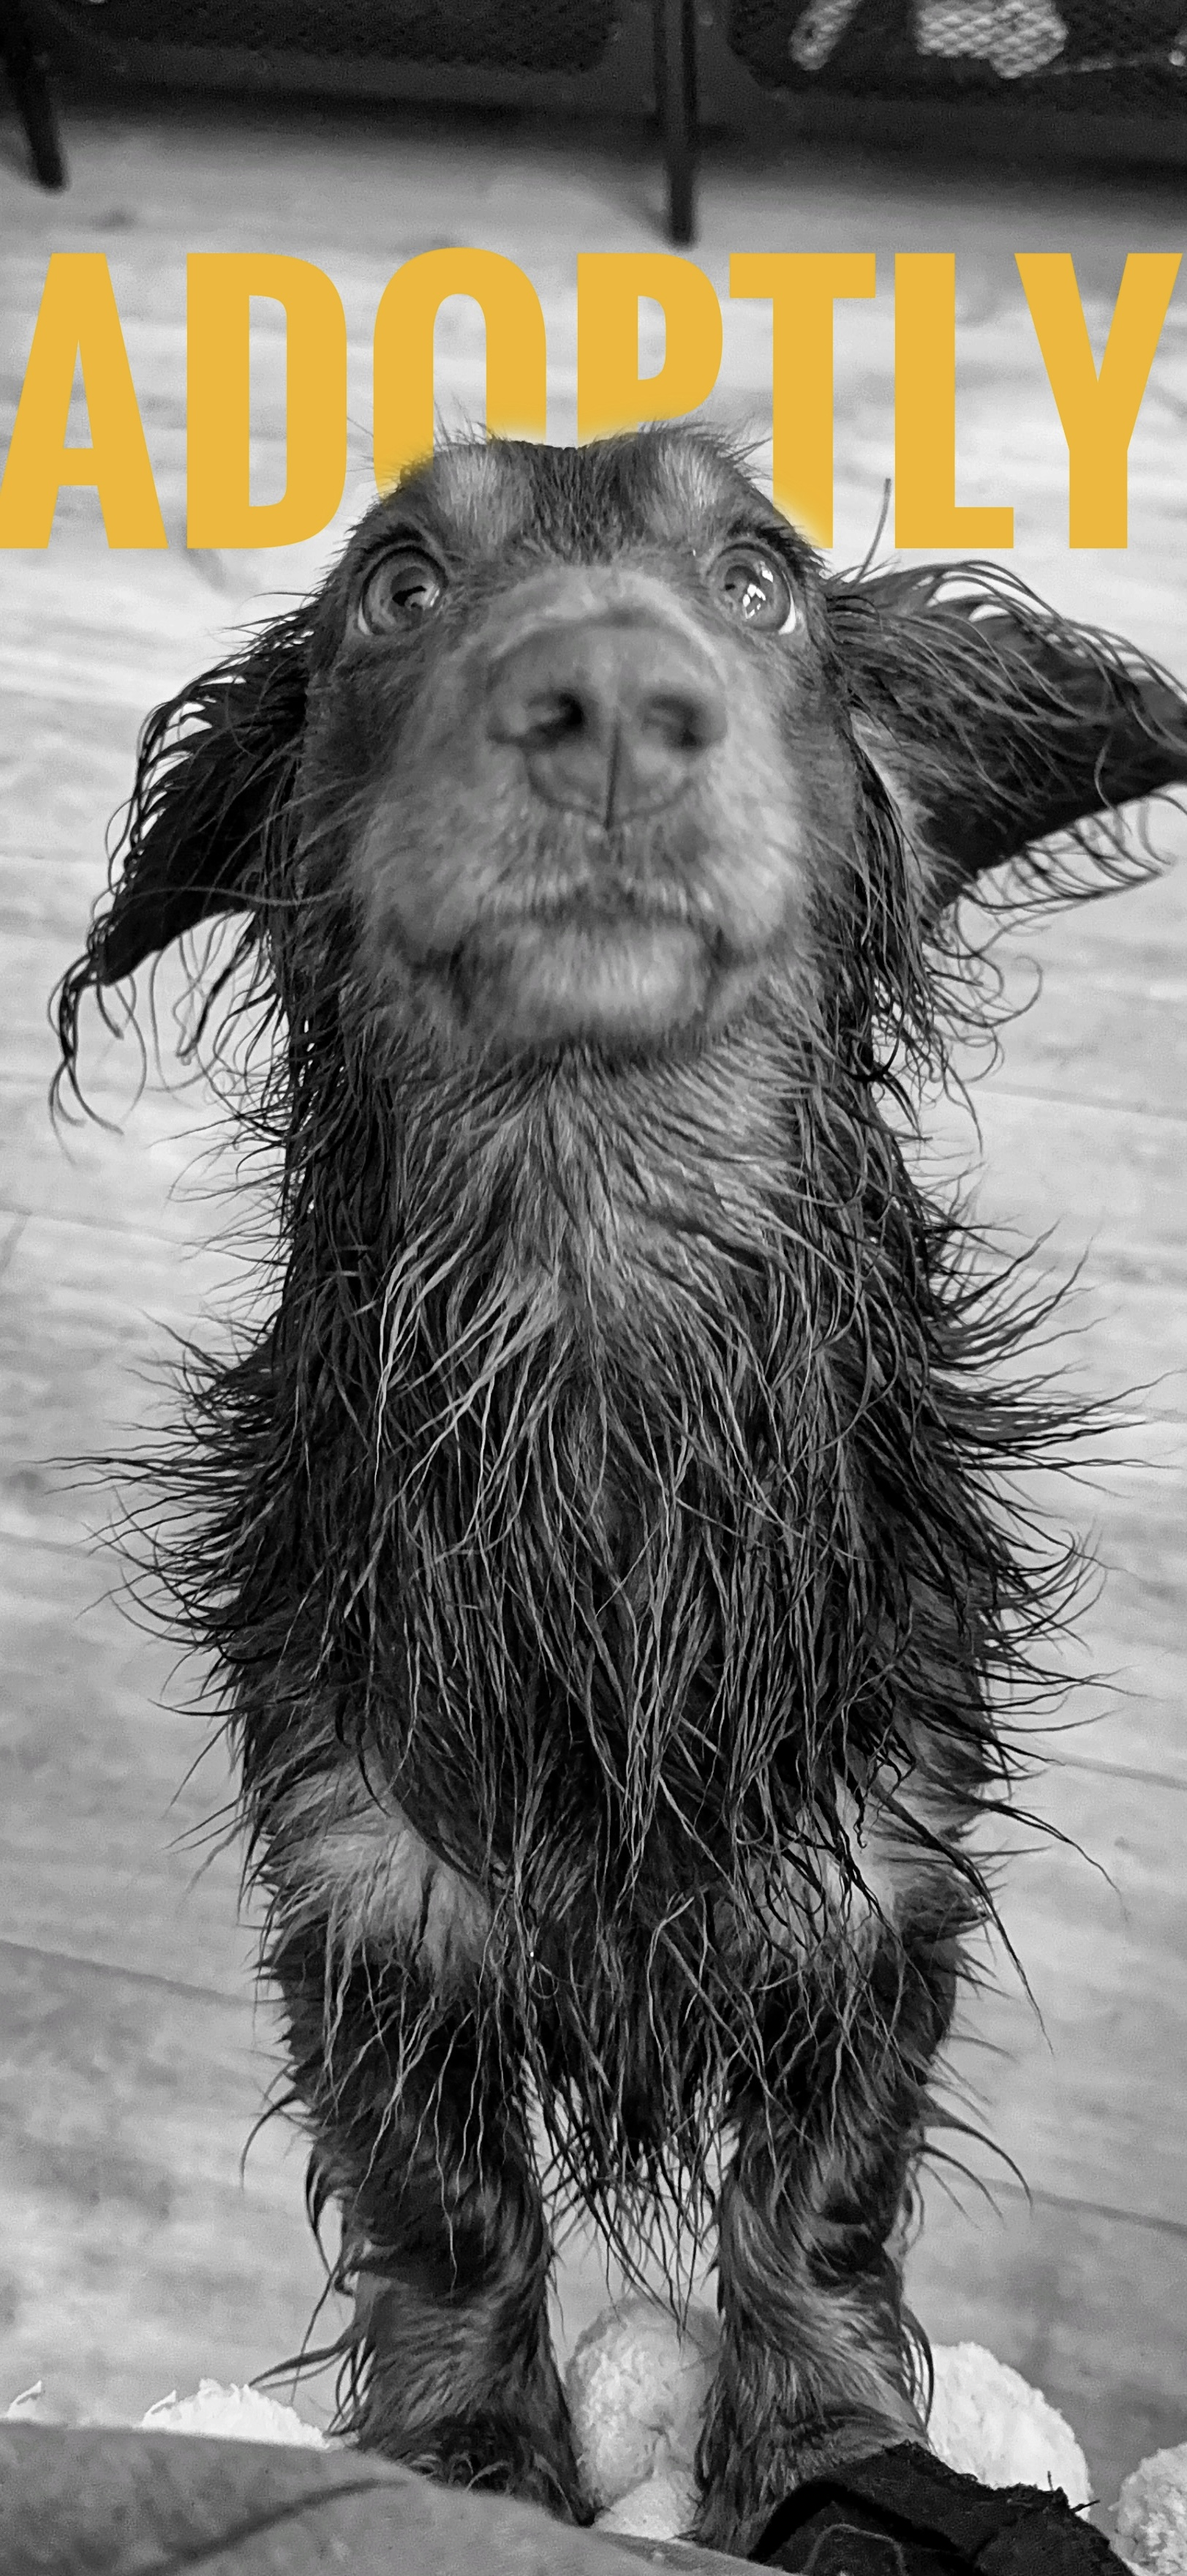
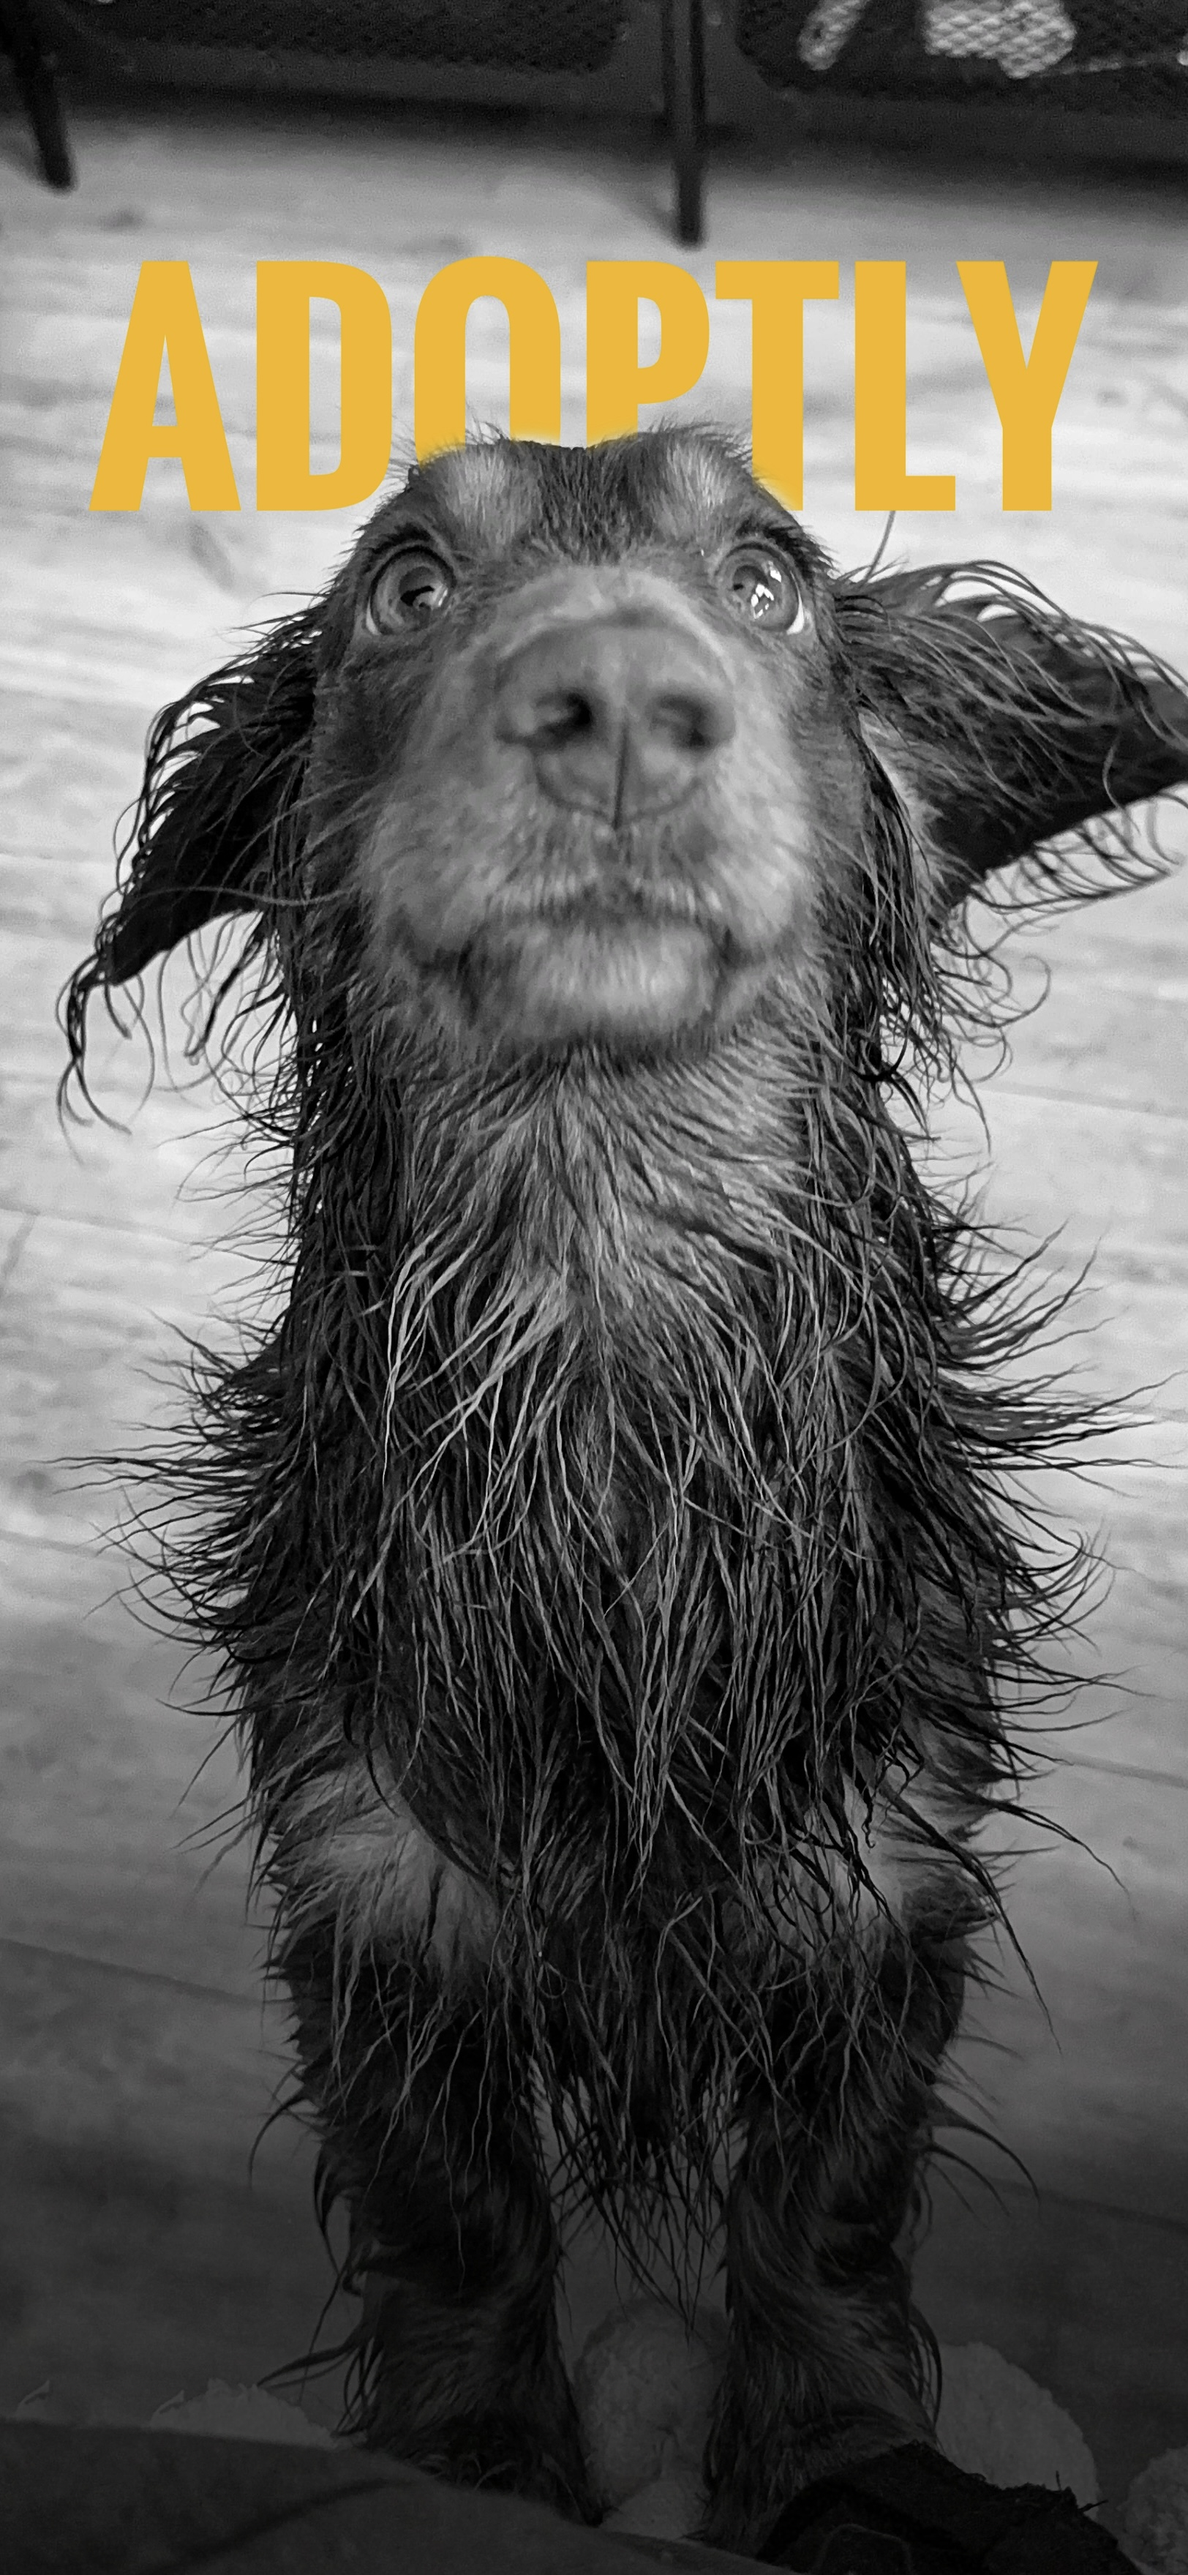
gateway style

diff --git a/main_app/static/css/style.css b/main_app/static/css/style.css
@@ -1,6 +1,5 @@
 body.gateway {
-    background: linear-gradient(0deg, 
-    rgba(0, 0, 0, 1) 0%, rgba(0, 0, 0, 0) 25%), url("/static/images/gateway-hero.jpg");
+    background: url("/static/images/gateway-hero.jpg");
     background-repeat: no-repeat;
     background-size: cover;
     display: flex;
@@ -8,21 +7,47 @@ body.gateway {
     justify-content: center;
 }
 
+
 button.signup {
+    height: 40px;
+    margin: auto;
     display: flex;
     justify-content: center;
+    align-items: center;
+    flex-direction: column;
     font-size: 3vmin;
-    padding-top: 2vmin;
-    padding-bottom: 2vmin;
-    padding-right: 15vmin;
-    padding-left: 15vmin;
-    border: 0vmin solid orange;
+    border: none;
     border-radius: 3vmin;
-    background-color: orange;
-    color: white;
+    background-color: #fab005;
+    margin-top: 170vmin;
+    font-family: 'Open Sans', sans-serif;
+    width: 60%;
 }
 
 a.login {
     color: white;
     text-decoration-line: none;
+    display: flex;
+    flex-direction: column;
+    justify-content: center;
+    align-items: center;
+    margin-top: 2vmin;
+    font-size: 4vmin;
+    font-family: 'Open Sans', sans-serif;
+}
+
+/* .color-overlay {
+    background: linear-gradient(to top, 
+    rgba(0, 0, 0, 1), rgba(0, 0, 0, 0));
+    width: 100%;
+    height: 25%;
+    opacity: 0.5;
+    position: absolute;
+} */
+
+a.signup {
+    color: white;
+    text-decoration: none;
+    font-size: 4vmin;
+    font-family: 'Open Sans', sans-serif;
 }

diff --git a/main_app/templates/gateway.html b/main_app/templates/gateway.html
@@ -1,6 +1,7 @@
 <!-- Probably no need to extend base.html as login will have restricted access -->
 <!-- Mobile centric approach maybe -->
 {% load static %}
+
 <!--TODO figure out the links that send the user to the registration signup/login page after clicking login/sign up on the opening page of the app (adoptly sign up page)- LOU -->
 <!DOCTYPE html>
 <html lang="en">
@@ -8,10 +9,19 @@
     <meta charset="UTF-8" />
     <meta name="viewport" content="width=device-width, initial-scale=1.0" />
     <link rel="stylesheet" href="{% static 'css/style.css' %}" />
+    <link rel="preconnect" href="https://fonts.googleapis.com" />
+    <link rel="preconnect" href="https://fonts.gstatic.com" crossorigin />
+    <link
+      href="https://fonts.googleapis.com/css2?family=Open+Sans:wght@300;400;500;600;700&display=swap"
+      rel="stylesheet"
+    />
     <title>Document</title>
   </head>
   <body class="gateway">
-    <button class="signup"><a href="{% url 'signup' %}">Sign Up</a></button>
+    <button class="signup">
+      <a href="{% url 'signup' %}" class="signup">Sign Up</a>
+    </button>
     <a href="{% url 'login' %}" class="login">Log In</a>
+    <div class="color-overlay"></div>
   </body>
 </html>
